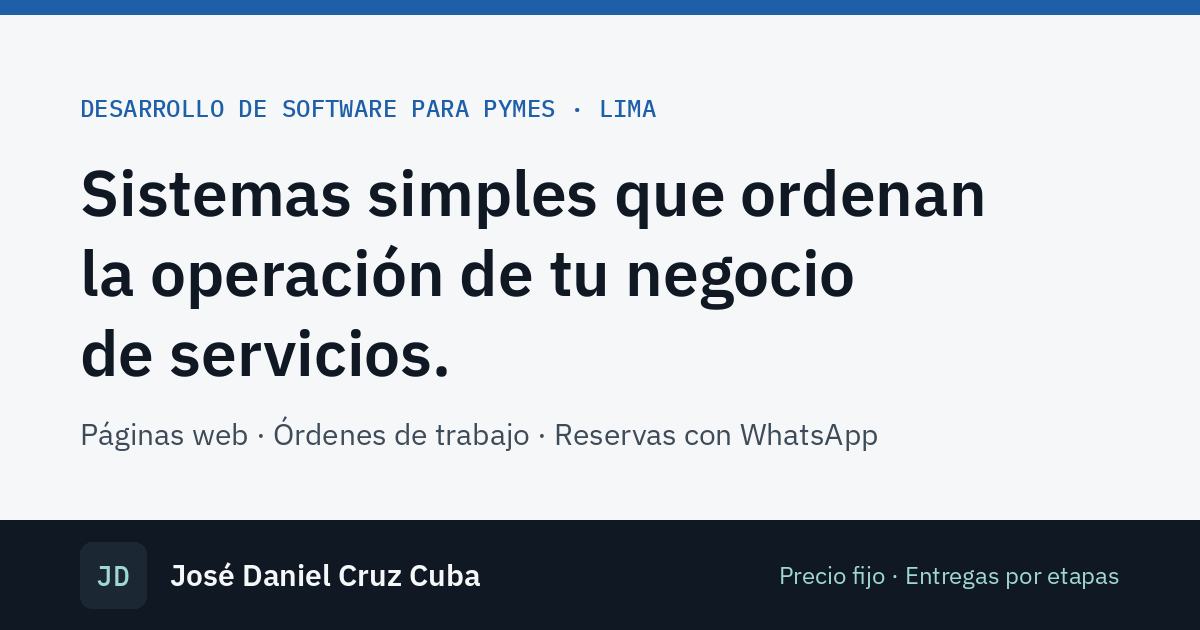
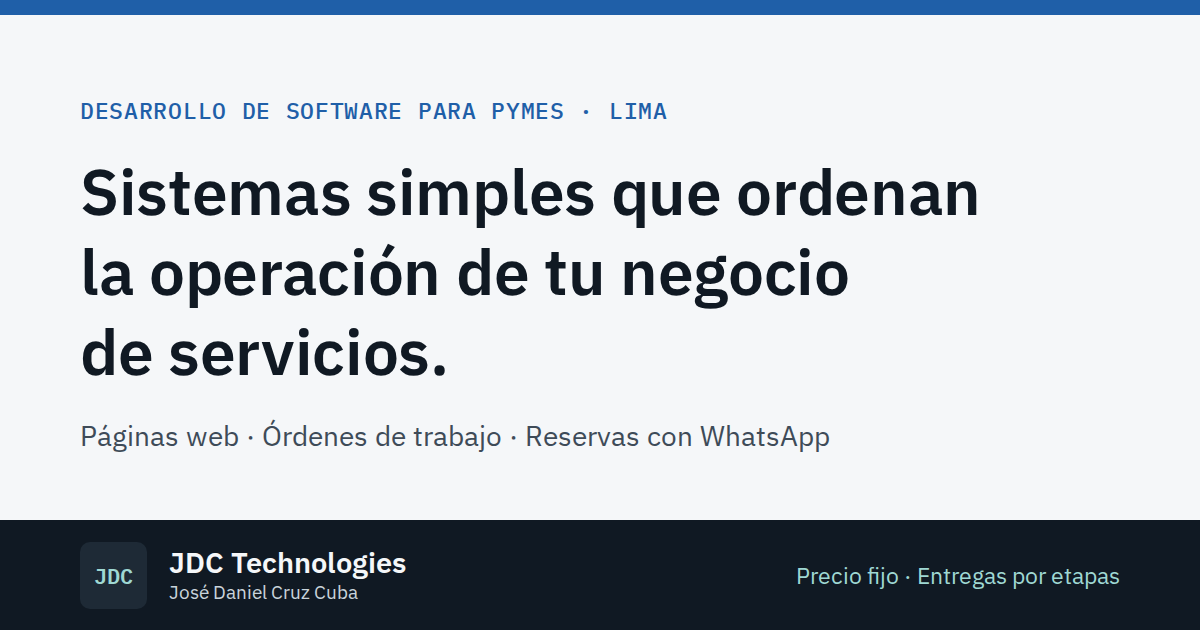
Unificar nombre comercial: JDC Technologies
Header, título, Open Graph, pie, 404, README, favicon e imagen de vista
previa usan JDC Technologies; José Daniel Cruz Cuba queda como la
persona detrás del negocio (hero y pie).

diff --git a/index.html b/index.html
@@ -3,19 +3,20 @@
 <head>
   <meta charset="utf-8">
   <meta name="viewport" content="width=device-width, initial-scale=1">
-  <title>José Daniel Cruz Cuba · Desarrollo de software para pymes en Lima</title>
+  <title>JDC Technologies · Desarrollo de software para pymes en Lima</title>
   <meta name="description" content="Páginas web, automatizaciones y sistemas de órdenes de servicio para talleres, mantenimiento, logística pequeña y servicios técnicos en Lima. Precio fijo y entregas por etapas.">
   <meta name="theme-color" content="#101923">
 
   <meta property="og:type" content="website">
   <meta property="og:locale" content="es_PE">
-  <meta property="og:title" content="José Daniel Cruz Cuba · Desarrollo de software para pymes">
+  <meta property="og:site_name" content="JDC Technologies">
+  <meta property="og:title" content="JDC Technologies · Desarrollo de software para pymes">
   <meta property="og:description" content="Sistemas simples que ordenan la operación de tu negocio de servicios. Precio fijo y entregas por etapas.">
   <meta property="og:url" content="https://landing-pymes.cruzdani543.workers.dev/">
   <meta property="og:image" content="https://landing-pymes.cruzdani543.workers.dev/og-image.png">
   <meta property="og:image:width" content="1200">
   <meta property="og:image:height" content="630">
-  <meta property="og:image:alt" content="José Daniel Cruz Cuba · Sistemas simples que ordenan la operación de tu negocio de servicios">
+  <meta property="og:image:alt" content="JDC Technologies · Sistemas simples que ordenan la operación de tu negocio de servicios">
   <meta name="twitter:card" content="summary_large_image">
 
   <link rel="icon" href="favicon.svg" type="image/svg+xml">
@@ -30,7 +31,7 @@
 
   <header class="site-header">
     <div class="container header-inner">
-      <a class="brand" href="#inicio">José Daniel Cruz Cuba</a>
+      <a class="brand" href="#inicio">JDC Technologies</a>
       <nav aria-label="Principal">
         <ul class="nav-list">
           <li><a href="#servicios">Servicios</a></li>
@@ -188,7 +189,7 @@
 
   <footer class="site-footer">
     <div class="container">
-      <p>José Daniel Cruz Cuba · Lima, Perú</p>
+      <p>JDC Technologies · José Daniel Cruz Cuba · Lima, Perú</p>
     </div>
   </footer>
 </body>

diff --git a/404.html b/404.html
@@ -3,7 +3,7 @@
 <head>
   <meta charset="UTF-8">
   <meta name="viewport" content="width=device-width, initial-scale=1">
-  <title>Página no encontrada · José Daniel Cruz Cuba</title>
+  <title>Página no encontrada · JDC Technologies</title>
   <link rel="icon" href="/favicon.svg" type="image/svg+xml">
   <link rel="stylesheet" href="https://fonts.googleapis.com/css2?family=IBM+Plex+Sans:wght@400;600&display=swap">
   <link rel="stylesheet" href="/styles.css">

diff --git a/README.md b/README.md
@@ -1,4 +1,4 @@
-# Landing · José Daniel Cruz Cuba
+# Landing · JDC Technologies
 
 Sitio estático (HTML + CSS, sin build) con dos demos:
 
